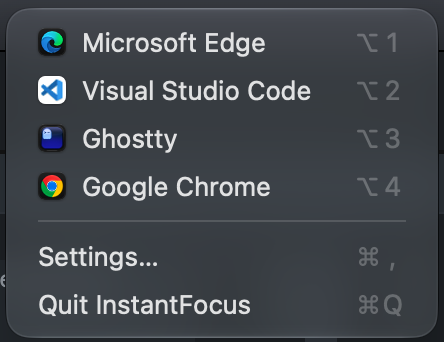
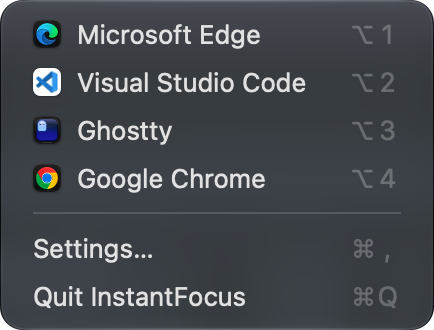
README: centered header, screenshots cropped to the window shape
- Logo and title centered (the right-floated logo broke the heading)
- Settings and app list screenshots cropped to the exact window with
  transparent rounded corners, aligned to the top, side by side
- Shot list: capture windows with ⌘⇧4, Space, ⌥-click
- release.sh: use the current cask syntax (depends_on macos: :ventura)

diff --git a/README.md b/README.md
@@ -1,17 +1,21 @@
-<picture>
-  <source media="(prefers-color-scheme: dark)" srcset="docs/screenshots/icon-black-on-white.png">
-  <img src="docs/screenshots/icon-white-on-black.png" width="96" align="right" alt="InstantFocus icon">
-</picture>
+<p align="center">
+  <picture>
+    <source media="(prefers-color-scheme: dark)" srcset="docs/screenshots/icon-black-on-white.png">
+    <img src="docs/screenshots/icon-white-on-black.png" width="88" alt="InstantFocus icon">
+  </picture>
+</p>
 
-# InstantFocus
+<h1 align="center">InstantFocus</h1>
+
+<p align="center">Jump to any app with one shortcut, on any Space or full screen, without the animation.</p>
 
 A tiny macOS menu bar app: give each app a shortcut, press it, and you're in that app,
 whether its window is on the current Space, another Space, or full screen. No slide, no
 crossfade. That's all it does: trackpad swipes and other Space switching stay as macOS has them.
 
-<p>
-  <img src="docs/screenshots/settings-dark.png" width="469" alt="Settings: your apps with their shortcuts (reorderable), the app list shortcut, menu bar icon style, launch at login">
-  <img src="docs/screenshots/app-list-dark.png" width="222" alt="The app list: your apps with their shortcuts, plus Settings and Quit">
+<p align="center">
+  <img src="docs/screenshots/settings-dark.png" width="461" align="top" alt="Settings: your apps with their shortcuts (reorderable), the app list shortcut, menu bar icon style, launch at login">
+  <img src="docs/screenshots/app-list-dark.png" width="217" align="top" alt="The app list: your apps with their shortcuts, plus Settings and Quit">
 </p>
 
 The menu bar shows the focused app's icon when that app has a shortcut, otherwise ⚡,
@@ -20,10 +24,12 @@ drawn black on white or white on black (your choice in Settings). Click it, or p
 to pick, Esc to close. Picking an app jumps to it the same instant way. The list follows the
 order of the apps in Settings (reorder them with ▲ ▼).
 
-<picture>
-  <source media="(prefers-color-scheme: dark)" srcset="docs/screenshots/menubar-dark.png">
-  <img src="docs/screenshots/menubar-light.png" width="692" alt="The menu bar icon in both styles: ⚡ when no shortcut app is focused, otherwise the focused app's icon (Ghostty, VS Code, Chrome, Edge)">
-</picture>
+<p align="center">
+  <picture>
+    <source media="(prefers-color-scheme: dark)" srcset="docs/screenshots/menubar-dark.png">
+    <img src="docs/screenshots/menubar-light.png" width="692" alt="The menu bar icon in both styles: ⚡ when no shortcut app is focused, otherwise the focused app's icon (Ghostty, VS Code, Chrome, Edge)">
+  </picture>
+</p>
 
 ## Install
 

diff --git a/docs/screenshots/README.md b/docs/screenshots/README.md
@@ -23,8 +23,10 @@ Retina (2×) captures; the README shows them at half width.
 
 How:
 
-- **Settings window:** ⌘⇧4, Space, click the window (⌥-click leaves out the shadow).
-- **App list:** ⌘⇧Space, then ⌘⇧4 and drag over the icon and the list.
+- **Settings window:** ⌘⇧4, Space, **⌥-click** the window: macOS saves exactly the window, rounded
+  corners transparent, no shadow. That's the look the README uses. (The current dark ones were
+  cropped to that shape afterwards; they still show v0.1.0 with the old scrollbar, so retake them.)
+- **App list:** ⌘⇧Space, then ⌘⇧4, Space, **⌥-click** the open list (menus are windows too).
 - **Demo:** ⌘⇧5 → Record Selected Portion, with KeyCastr showing the keys.
 
 - Light and Dark: switch in System Settings → Appearance and take both.
